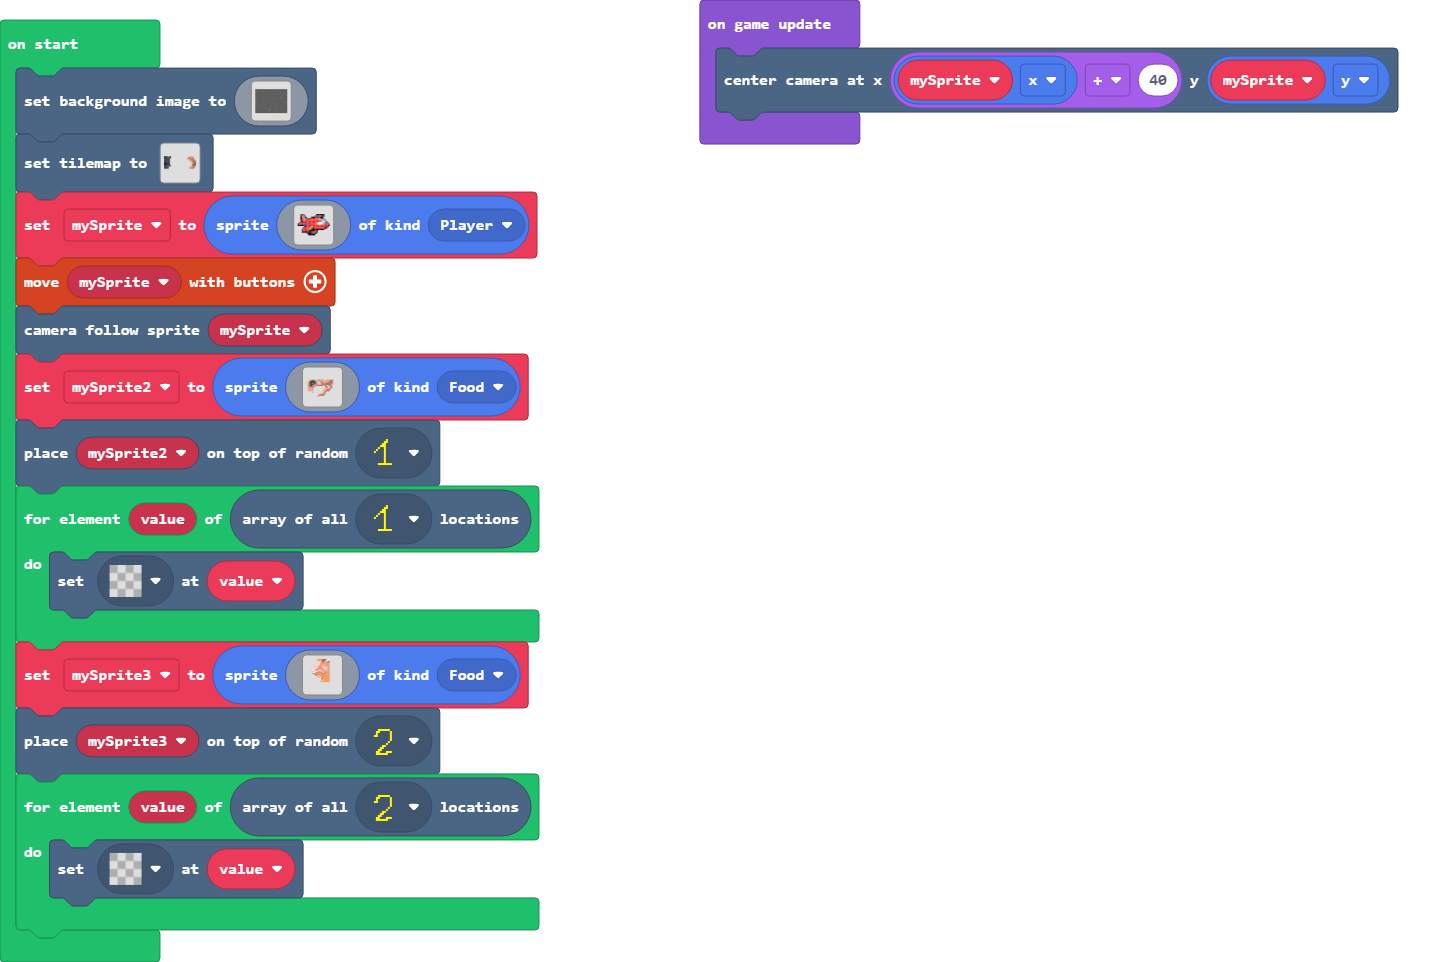
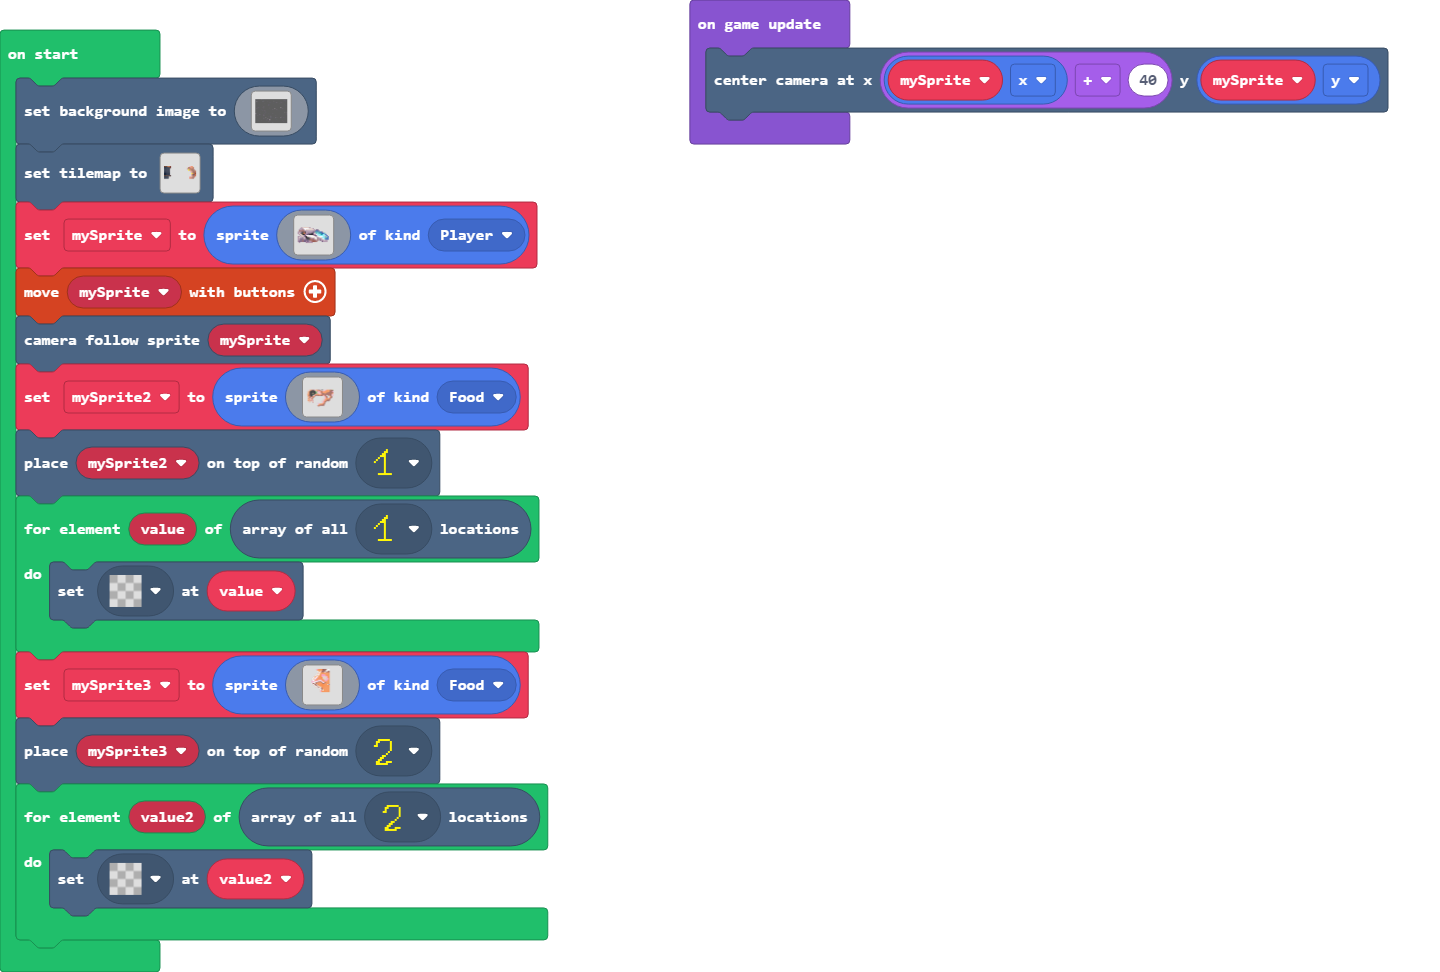
Update main.blocks, main.ts, images.g.jres, images.g.ts

diff --git a/main.ts b/main.ts
@@ -1,6 +1,6 @@
 scene.setBackgroundImage(assets.image`background1`)
 tiles.setTilemap(tilemap`level1`)
-let mySprite = sprites.create(assets.image`plane0`, SpriteKind.Player)
+let mySprite = sprites.create(assets.image`starship1`, SpriteKind.Player)
 controller.moveSprite(mySprite)
 scene.cameraFollowSprite(mySprite)
 let mySprite2 = sprites.create(assets.image`boca1`, SpriteKind.Food)
@@ -10,8 +10,8 @@ for (let value of tiles.getTilesByType(assets.tile`myTile`)) {
 }
 let mySprite3 = sprites.create(assets.image`barriga1`, SpriteKind.Food)
 tiles.placeOnRandomTile(mySprite3, assets.tile`myTile0`)
-for (let value of tiles.getTilesByType(assets.tile`myTile0`)) {
-    tiles.setTileAt(value, assets.tile`transparency16`)
+for (let value2 of tiles.getTilesByType(assets.tile`myTile0`)) {
+    tiles.setTileAt(value2, assets.tile`transparency16`)
 }
 game.onUpdate(function () {
     scene.centerCameraAt(mySprite.x + 40, mySprite.y)

diff --git a/images.g.ts b/images.g.ts
@@ -231,6 +231,23 @@ dd444effffffffd444444444444eeeeeeeeeeeeeeeee3dd.........
 ....................................
 ....................................
 `;
+            case "image5":
+            case "starship1":return img`
+...bddddddb.................
+..bbb11111dddb..............
+.bbbeb1dddddddb.cc..........
+.eeeeebbbbbbbbbc88c.........
+bbbcfefbbbbbbcc666688c......
+bdbff4ebbcccfcdd69666886....
+.bddffbbccfffcbb199966998...
+..bddbcd11111dbcc1999999d8..
+bb.bdbcfbdd1111dbd1111996d8.
+bdbbcdbfffcbddd11cbdd999668.
+bbcccbbcfffeecbd1ebcbd19888.
+bbcceccccceeeeeebe.cbbbdbb..
+bccceccbccbbeeeee....cbbbb..
+.b.....bbbbbb...............
+`;
         }
         return null;
     })
